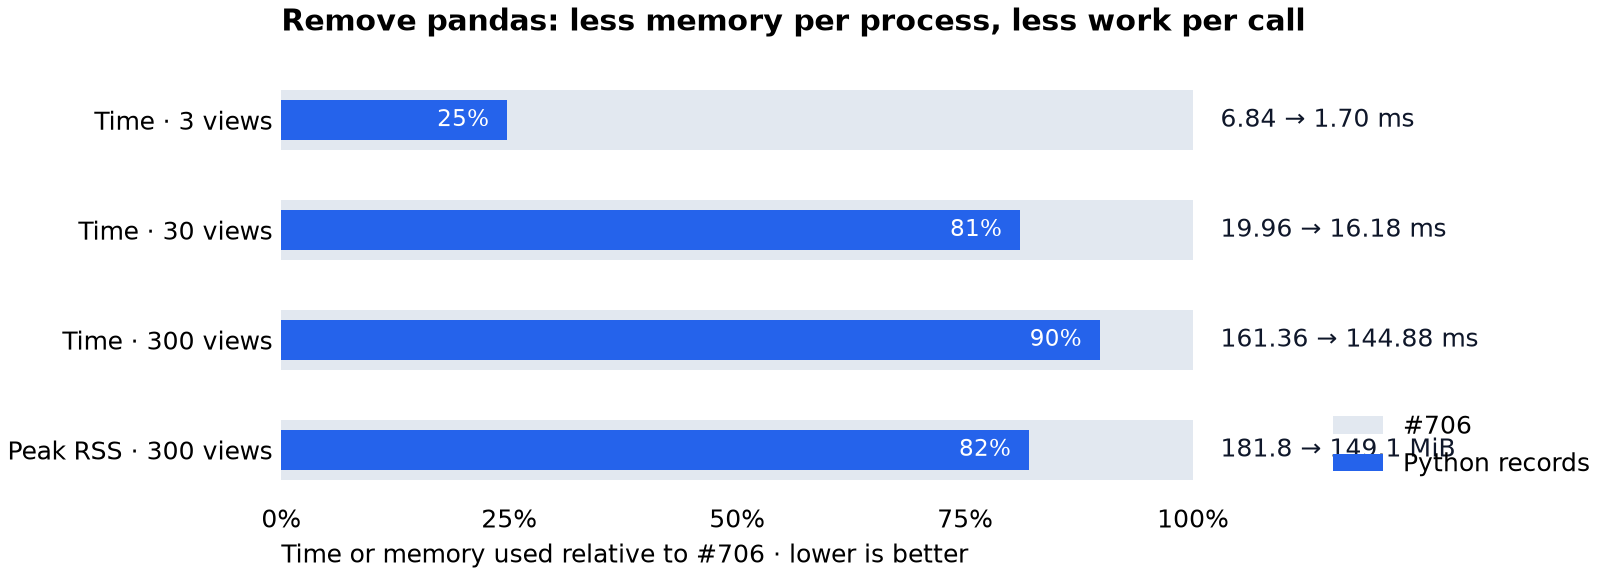
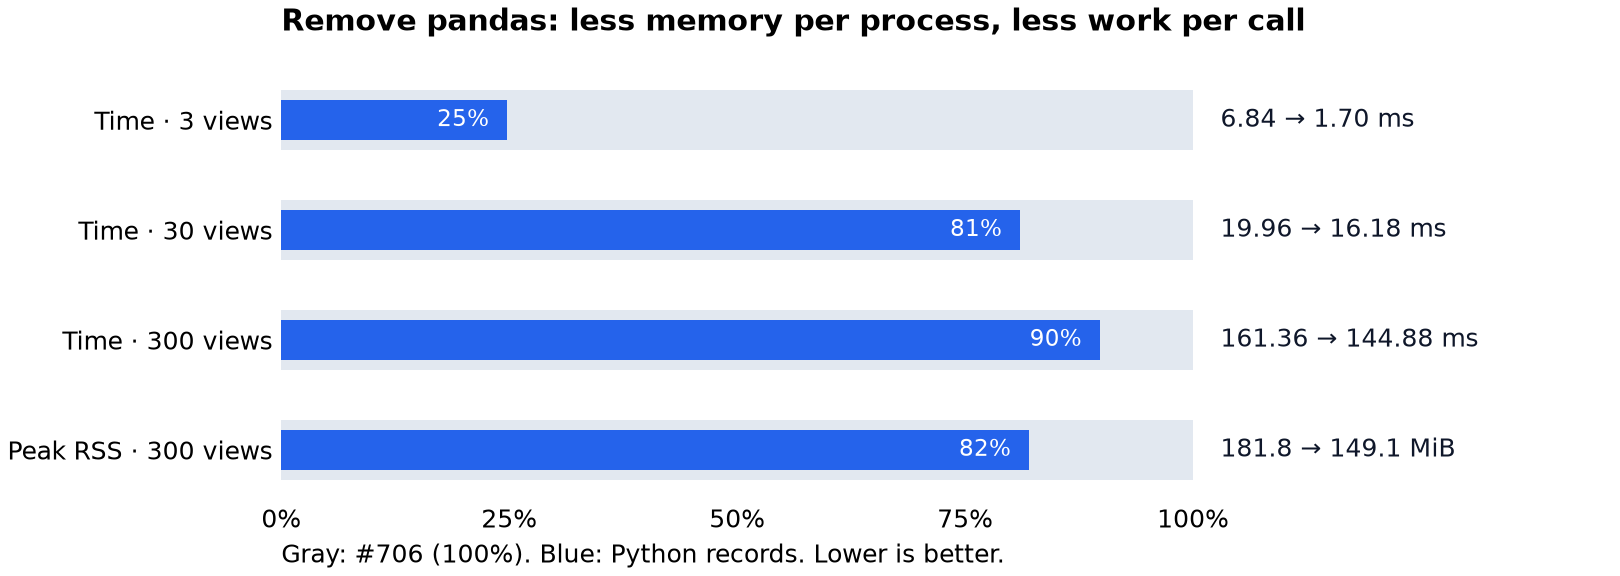
bench: keep chart labels clear

Changed region(s): [[0.1543, 0.9375, 0.6173, 1.0], [0.8025, 0.7812, 0.9877, 0.8438], [0.8025, 0.7188, 0.9259, 0.75]]

diff --git a/benchmarks/pandas-removal/plot.py b/benchmarks/pandas-removal/plot.py
@@ -31,9 +31,8 @@ for y, ratio, value in zip(ys, ratios, values, strict=True):
 ax.set_yticks(ys, labels)
 ax.set_xlim(0, 146)
 ax.set_xticks([0, 25, 50, 75, 100], ["0%", "25%", "50%", "75%", "100%"])
-ax.set_xlabel("Time or memory used relative to #706 · lower is better", loc="left")
+ax.set_xlabel("Gray: #706 (100%). Blue: Python records. Lower is better.", loc="left")
 ax.set_title("Remove pandas: less memory per process, less work per call", loc="left", weight="bold", pad=16)
-ax.legend(loc="lower right", frameon=False)
 ax.tick_params(axis="both", length=0)
 for spine in ax.spines.values():
     spine.set_visible(False)
